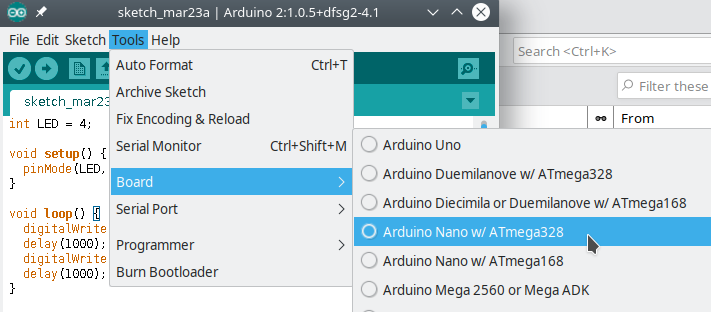
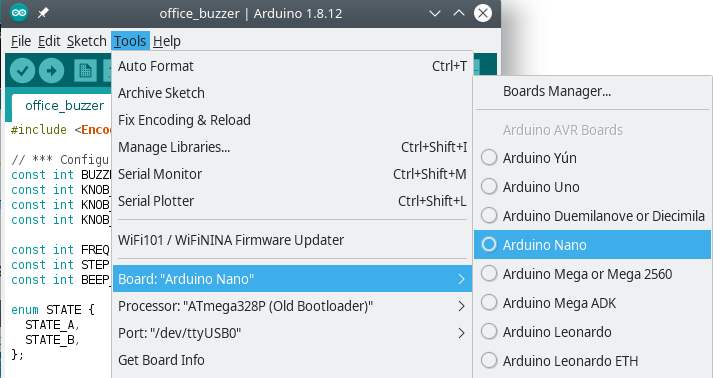
Week1: Update readme, align images, newer image for board selection

diff --git a/week1/README.md b/week1/README.md
@@ -67,13 +67,14 @@ Connecting anything on a breadboard with jumper wires utilizes the pre-existing 
 Refer to this list: [Intro/Software Requirements](../Intro.md#software-requirements) and make sure you have both Arduino IDE and the USB driver installed.
 
 Next, open Arduino IDE, make sure you installed the CH340 USB driver.
-![](images/arduino_ide.png)
+![Arduino IDE](images/arduino_ide.png)
 
 **Choose the board and the port**
 
 From the `Tools` menu select the `Board` and `Port` for your Arduino.
-* Board: Arduino Nano w/ ATmega328P (old bootloader)
-* Port: Serial port through USB, depends on the operating system.
+* Board: **Arduino Nano**
+* Processor: **ATmega328P (old bootloader)**
+* Port: **Serial port through USB**, specific name will depend on the operating system (e.g., /dev/ttyUSB0)
 
 ![](images/arduino_ide_board.png)
 
@@ -97,13 +98,14 @@ For this first project, we'll use an example instead of writing the code ourselv
 In Arduino IDE:
 
 `File` -> `Examples` -> `01. Basics` -> `Blink`
+
 ![](images/arduino_ide_examples_blink.png)
 
 Now upload the code to the Arduino:
 
 `File` -> `Upload`
 
-Or click the :right-arrow: button in the button bar of the IDE.
+Or click the :right_arrow: button in the button bar of the IDE.
 
 You should see the generic LED (the bottom LED) start blinking slowly.
 
